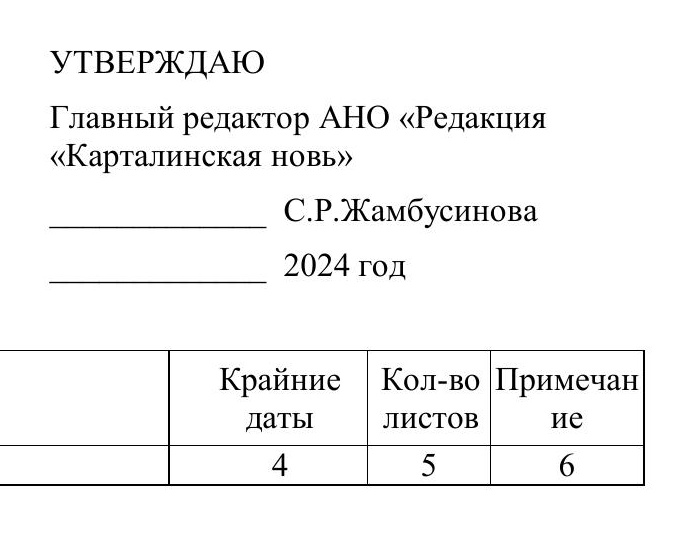
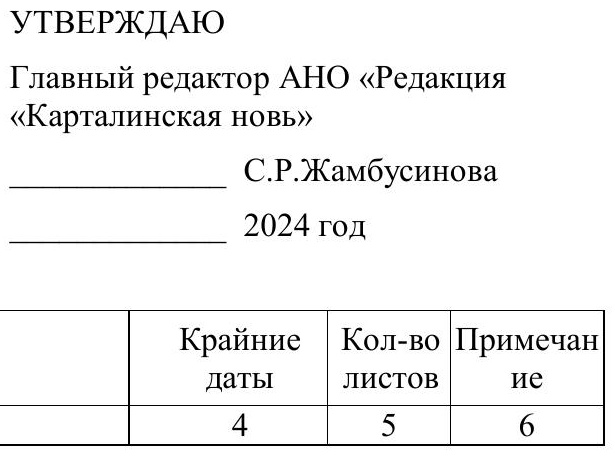
Добил функцию определения схожести

diff --git a/lama 3.1/proverka8/DocumentChecker.py b/lama 3.1/proverka8/DocumentChecker.py
@@ -3,7 +3,7 @@ import pytesseract
 import os
 from cv2.gapi import kernel
 from pdf2image import convert_from_path
-from sentence_transformers import SentenceTransformer, util
+from Levenshtein import ratio
 from sklearn.cluster import DBSCAN
 from pathlib import Path
 
@@ -11,46 +11,70 @@ def local_to_absolute_path(file_path):
     return str(Path(file_path).resolve())
 
 # Загрузка модели эмбеддингов
-model = SentenceTransformer('paraphrase-MiniLM-L6-v2')
+
 
 # Сравнение с использованием эмбеддингов напрямую
-def compare_names_with_embeddings(threshold=0.8):
+def compare_names_with_embeddings(threshold=0.7):
+    print('Шаг 3 Анализ блоков \'Утверждаю\' и \'Согласовано\'')
     pytesseract.pytesseract.tesseract_cmd = local_to_absolute_path('Tesseract/tesseract.exe')
 
-    approve_arr = [[len(os.listdir(local_to_absolute_path('data/change_image')))],[]]
-    agreed_arr = [[len(os.listdir(local_to_absolute_path('data/change_image')))],[]]
+    approve_arr = []
+    agreed_arr = []
 
-    count = 0
+    #todo нужно сделать отсеивание элементов, если они идут спустя 4 пустых элемента массива
     for value in os.listdir(local_to_absolute_path('data/change_image')):
-        img = cv2.imread(value)
+        img = cv2.imread(local_to_absolute_path('data/change_image/' + value))
         data = pytesseract.image_to_data(img, lang='rus', output_type=pytesseract.Output.DICT)
 
         for iterator in range(len(data)):
             if 'утверждаю' in data['text'][iterator].lower().strip() or 'утверждено' in data['text'][iterator].lower().strip():
-                approve_arr[count] = data['text']
+                buffer = str(''.join(data['text']))
+                approve_arr.append(buffer)
+                break
             elif 'согласов' in data['text'][iterator].lower().strip():
-                agreed_arr[count] = data['text']
+                buffer = str(''.join(data['text']))
+                agreed_arr.append(buffer)
+                break
 
-        count += 1
+    print('Шаг 4 Подготовка результатов')
+    if approve_arr and agreed_arr:
+        '''
+        МОЖНО ДОДЕЛАТЬ, ЕСЛИ ПРИШЛО НЕСКОЛЬКО УТВЕРЖДАЮ И СОГЛАСОВАНО
+        
+        if approve_arr and agreed_arr:
+        if len(approve_arr) > 1:
+            print('Обнаружено больше 1-го наименования УТВЕРЖДАЮ')
+            for i in range(len(approve_arr) - 1):
 
-    """
-    if approve and agreed:
-        emb1 = model.encode(approve, convert_to_tensor=True)
-        emb2 = model.encode(agreed, convert_to_tensor=True)
-        similarity = util.pytorch_cos_sim(emb1, emb2).item()
+                if similarity >= threshold:
+                    print(f"Наименования не совпадают (различия: {similarity:.2f})")
+                else:
+                    print(f"Наименования совпадают (различия: {similarity:.2f})")
 
-        if similarity >= threshold:
-            return f"Наименования совпадают (сходство: {similarity:.2f})"
+        if len(agreed_arr) > 1:
+            print('Обнаружено больше 1-го наименования СОГЛАСОВАНО')
+            for i in range(len(agreed_arr) - 1):
+
+                if similarity >= threshold:
+                    print(f"Наименования не совпадают (различия: {similarity:.2f})")
+                else:
+                    print(f"Наименования совпадают (различия: {similarity:.2f})")
+        '''
+        if len(agreed_arr) == 1 and len(approve_arr) == 1:
+            similarity = ratio(approve_arr[0], agreed_arr[0])
+
+            if similarity <= threshold:
+                print('\n' * 2 + f"ВНИМАНИЕ!\nНизкий процент совпадения текста - проверьте документ на правильность заполнения! (схожесть: {similarity:.2f})")
+            else:
+                print('\n' * 2+ f"Наименования совпадают (схожесть: {similarity:.2f})")
         else:
-            return f"Наименования не совпадают (сходство: {similarity:.2f})"
+            print('\n' * 2 + 'Внимание!\nОбнаружено больше одного блока текста \"Согласовано\" или \"Утверждаю\"')
     else:
-        return "Ошибка: Не удалось извлечь наименования"
-    """
+        print("Ошибка!\nНаименования не найдены!")
 
 #Преобразование pdf к jpg
 def convert_PDF_to_image(file_path, save_image_path = local_to_absolute_path('data/pdf_images'), poppler_path = local_to_absolute_path('urfu_LLM_Documents/lama 3.1/poppler-24.08.0/Library/bin')):
     print('Шаг 1 Конвертация pdf к изображению...')
-    delete_file_in_folder()
     os.environ["PATH"] += os.pathsep + poppler_path
     images = convert_from_path(file_path)
 
@@ -58,14 +82,23 @@ def convert_PDF_to_image(file_path, save_image_path = local_to_absolute_path('da
         image.save(f'{save_image_path}\\page_{i}.jpg', 'JPEG')
 
 #Удаление предыдущих результатов преобразования pdf к jpg
-def delete_file_in_folder(file_path = local_to_absolute_path('data/pdf_images')):
-    for filename in os.listdir(file_path):
-        file_path = os.path.join(file_path, filename)
+def delete_file_in_folder():
+
+    file_path_to_delete = local_to_absolute_path('data/pdf_images') + '\\'
+    for value in os.listdir(file_path_to_delete):
         try:
-            if os.path.isfile(file_path):
-                os.remove(file_path)
+            if os.path.isfile(file_path_to_delete + value):
+                os.remove(file_path_to_delete + value)
         except Exception as e:
-            print(f'Ошибка при удалении файла {file_path}. {e}')
+            print(f'Ошибка при удалении файла {value}. {e}')
+
+    file_path_to_delete = local_to_absolute_path('data/change_image')  + '\\'
+    for value in os.listdir(file_path_to_delete):
+        try:
+            if os.path.isfile(file_path_to_delete + value):
+                os.remove(file_path_to_delete + value)
+        except Exception as e:
+            print(f'Ошибка при удалении файла {value}. {e}')
 
 #Анализ страницы
 def get_text_blocks(images_path = local_to_absolute_path('data/pdf_images')):
@@ -116,7 +149,7 @@ def get_text_blocks(images_path = local_to_absolute_path('data/pdf_images')):
                     centers.append([cx, cy])
 
         if not centers:
-            print("Обработка в процессе...")
+            #print("Обработка в процессе...")
             continue
 
         # Кластеризация по координатам центров
@@ -144,7 +177,7 @@ def get_text_blocks(images_path = local_to_absolute_path('data/pdf_images')):
 
             page_counter += 1
 
-            cropped_image = img[y_min - 50:y_max + 50, x_min - 50 :x_max + 50]
+            cropped_image = img[y_min - 30:y_max + 30, x_min - 30 :x_max + 30]
 
             cropped_image_data = pytesseract.image_to_data(cropped_image, lang='rus', output_type=pytesseract.Output.DICT)
 
@@ -158,12 +191,12 @@ def get_text_blocks(images_path = local_to_absolute_path('data/pdf_images')):
 
 # Основная логика
 def main(pdf_path):
+    delete_file_in_folder()
     convert_PDF_to_image(pdf_path)
     print(f'Images successfully converted from {pdf_path}')
     get_text_blocks()
     print(f'Обработка завершена!')
-    #compare_names_with_embeddings()
-
+    compare_names_with_embeddings()
 
 # Запуск
 pdf_path = 'D:\\OlegDocAnalyze\\fork_urfu_LLM_DOC\\urfu_LLM_Documents\\lama 3.1\\proverka8\\data\\Карталы_Редакция_газеты_оп_4_пх_за_2021_год.pdf'
